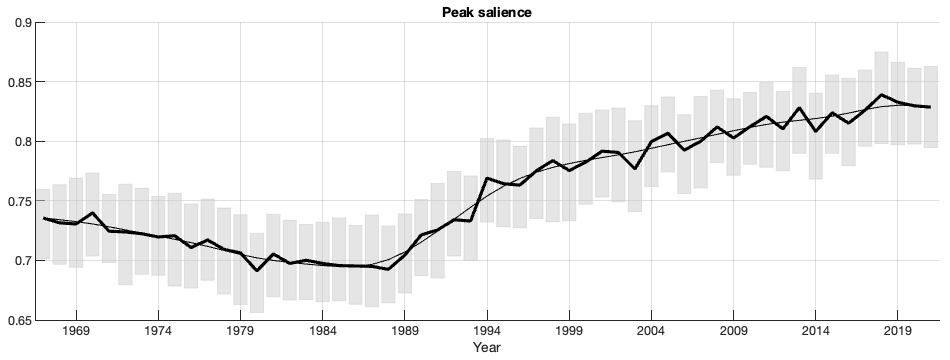
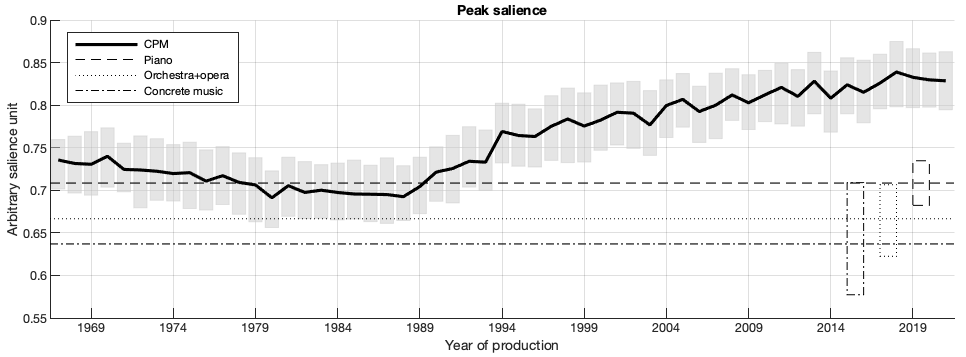
aa

diff --git a/docs/index.html b/docs/index.html
@@ -78,7 +78,7 @@
               <td width="50%" style="text-align: center"><img src="imgs/harmonic_ratio_upload.png" width="400" height="148" alt=""/></td>
               <td width="50%" style="text-align: center"><p>Minimum at the end of the '80s.<br>
               Generally lower than piano and orchestra. </p>
-              <p>Amount of periodicity comparable to <em>musique concrète</em>, which is produced with the same methods and absence of constraints linked to the resources of the performance.</p></td>
+              <p>Amount of periodicity comparable to <em>musique concrète</em>, which is produced with the same methods and absence of constraints linked to the resources of the performance (vocabulary from (Parry, 1911)).</p></td>
             </tr>
           </tbody>
       </table></td>
@@ -95,8 +95,9 @@ Middle, mean values for each band.<br>
 Bottom, each band is normalised with its mean value. Higher and lower bands follow a specific pattern. </p>
               <p>The highest band is irrelevant to melodic information: &quot;only repetition rates between ∼30 and 4000 Hz elicit a pitch sensation that is salient enough to carry melodic information&quot; (Oxenham, 2012)</p></td>
               <td width="50%" style="text-align: center"><p><img src="imgs/allspectra_diachronic_upload.png" width="400" height="213" alt=""/></p>
-                <p>Top, evolution of spectrum, normalised, same resolution as left diagram.<br>
-                Bottom, the same, weighted with ISO226-2003.                </p>
+                <p>Top, evolution of spectrum, normalised, same resolution as left diagram. Result coherent with (Pestana, 2013).<br>
+                Bottom, the same, weighted with ISO226-2003 (ISO/IEC, 2003).</p>
+                <p>Top suggests that the values measured for band 1 are less relevant before the '80s that they are after.</p>
                 <p>Bottom suggests that the higher band and the two lower bands highlighted in the diagram on the left sound at least 19LU (~dB) less loud than the louder band.</p>
                 <p>The perceived periodicity may therefore reside in the central band, which follow a similar behaviour.</p></td>
             </tr>
@@ -240,10 +241,25 @@ Bottom, each band is normalised with its mean value. Higher and lower bands foll
         To answer this question, we evaluate the 
         pairwise correlations between frequency bands.</p>
         <p>!!! In the current state, pairwise correlation doesn't provide information about harmonic relations, it provides information about parallelism<br>
-          Insert model of harmonic relation and compare.
-          <br>      
-          <br>
+          Insert model of harmonic relation and compare.        <br>
       </p></td>
+    </tr>
+     <tr>
+      <td colspan="2" bgcolor="#88F5FF" style="text-align: center"><strong> <br>
+      Corrected WE -&gt; Peak salience<br>
+        <br>
+      </strong></td>    </tr>
+    <tr>
+      <td style="text-align: center">&nbsp;</td>
+      <td style="text-align: center"><p>There are two issues with the WE representations:<br>
+        (1) The distribution is skewed.<br>
+        (2) Peak salience corresponds to low values, which is counter-intuitive.</p>
+        <p>Therefore, as in section 6, we derive &quot;peak salience&quot; from &quot;WE&quot;:  peak salience = (-WE).^.1.<br>
+          This way, the distribution is closer to normal, and high peak salience correspond to high values.
+        </p>
+        <p><img src="imgs/Peak_salience_upload.png" width="400" height="154" alt=""/></p>
+        <p>Observation: the order of periodicity was piano-orchestra-(concrete and CPM).<br>
+          The order of peak salience is CPM-piano-orchestra-concrete. The two notions do represent a different phenomenon, even though, as seen in section 3, they're correlated.</p></td>
     </tr>
     <tr>
       <td colspan="2" bgcolor="#88F5FF" style="text-align: center"><strong> <br>
@@ -269,9 +285,7 @@ Bottom, each band is normalised with its mean value. Higher and lower bands foll
     </tr>
     <tr>
       <td width="106" rowspan="3" style="text-align: left">&nbsp;</td>
-      <td colspan="2" style="text-align: center"><p> <span style="text-align: center">&quot;Peak salience&quot; is derived from median filtered spectrum: peak salience = (-WE).^.1. WE is the non-weighted WE.</span></p>
-        <p>&quot;Minus&quot; comes from: when WE is high, peak salience is low<br>
-&quot;.^1&quot; comes from: make the WE distribution more normal</p>
+      <td colspan="2" style="text-align: center"><p> <span style="text-align: center">&quot;Peak salience&quot; here relates to the <em>physical</em> peaks. It is derived from median filtered spectrum <em>non-weighted</em> WE.</span>        </p>
         <table width="50%" border="0" align="center" cellpadding="0" cellspacing="0">
           <tbody>
             <tr>
@@ -290,7 +304,7 @@ Bottom, each band is normalised with its mean value. Higher and lower bands foll
       <td width="637" style="text-align: center"><img src="imgs/BEA_WE_Harm_balanced_dists_rotated_upload.png" width="400" height="305" alt=""/></td>
     </tr>
     <tr>
-      <td style="text-align: center">When peak salience increases, periodicity increases.<br>
+      <td style="text-align: center">When peak salience increases, periodicity increases. The two features are correlated.<br>
       On first approximation, both features reach a local minimum during the '80s.</td>
       <td style="text-align: center"><p>PCA of the left diagram.<br>
       </p>
@@ -738,7 +752,7 @@ Notice the inharmonicity.</td>
 <p>&nbsp;</p>
 <p>&nbsp;</p>
 <p><span style="font-size: xx-large">5. PAIRWISE CORRELATIONS, 0.1-SECOND WINDOWS  (properties 2 and 3, parallelism and harmonicity)</span></p>
-<p> (</p>
+<p>&nbsp;</p>
 <table width="1386" border="1" cellpadding="0" cellspacing="0">
   <tbody>
     <tr>
@@ -1908,8 +1922,10 @@ y axis is property 2, parallelism</strong><br>
 <p>Cichocki, Andrzej, Rafal Zdunek, and Shun-ichi Amari (2006). "New algorithms for non-negative matrix factorization in applications to blind source separation." <em>2006 IEEE International Conference on Acoustics Speech and Signal Processing Proceedings</em>. Vol. 5. IEEE, 2006. </p>
 <p>Grachten, Maarten, Emmanuel Deruty, and Alexandre Tanguy. "Auto-adaptive resonance equalization using dilated residual networks." <em>arXiv preprint arXiv:1807.08636</em> (2018).</p>
 <p>ISO/IEC (2001), Information technology — Multimedia content description interface — Part 4: Audio, in FDIS 15938-4:2001(E), n.d. </p>
+<p>ISO/IEC. "226: 2003: Acoustics–Normal equal-loudness-level contours." <em>International Organization for Standardization</em> 63 (2003).</p>
 <p>Mauch, Matthias, and Simon Dixon. "Approximate Note Transcription for the Improved Identification of Difficult Chords." <em>ISMIR</em>. 2010.</p>
 <p>Andrew J. Oxenham. &quot;Pitch Perception&quot;. Journal of Neuroscience 26 September 2012, 32 (39) 13335-13338; DOI: https://doi.org/10.1523/JNEUROSCI.3815-12.2012</p>
+<p>Parry, Charles Hubert Hastings. <em>Style in musical art</em>. Macmillan, 1911.</p>
 <p>Pestana, Pedro Duarte, et al. "Spectral characteristics of popular commercial recordings 1950-2010." <em>Audio Engineering Society Convention 135</em>. Audio Engineering Society, 2013.</p>
 <p>Pressnitzer, Daniel, Roy D. Patterson, and Katrin Krumbholz. "The lower limit of melodic pitch." <em>The Journal of the Acoustical Society of America</em> 109.5 (2001): 2074-2084.</p>
 <p>&nbsp;</p>
